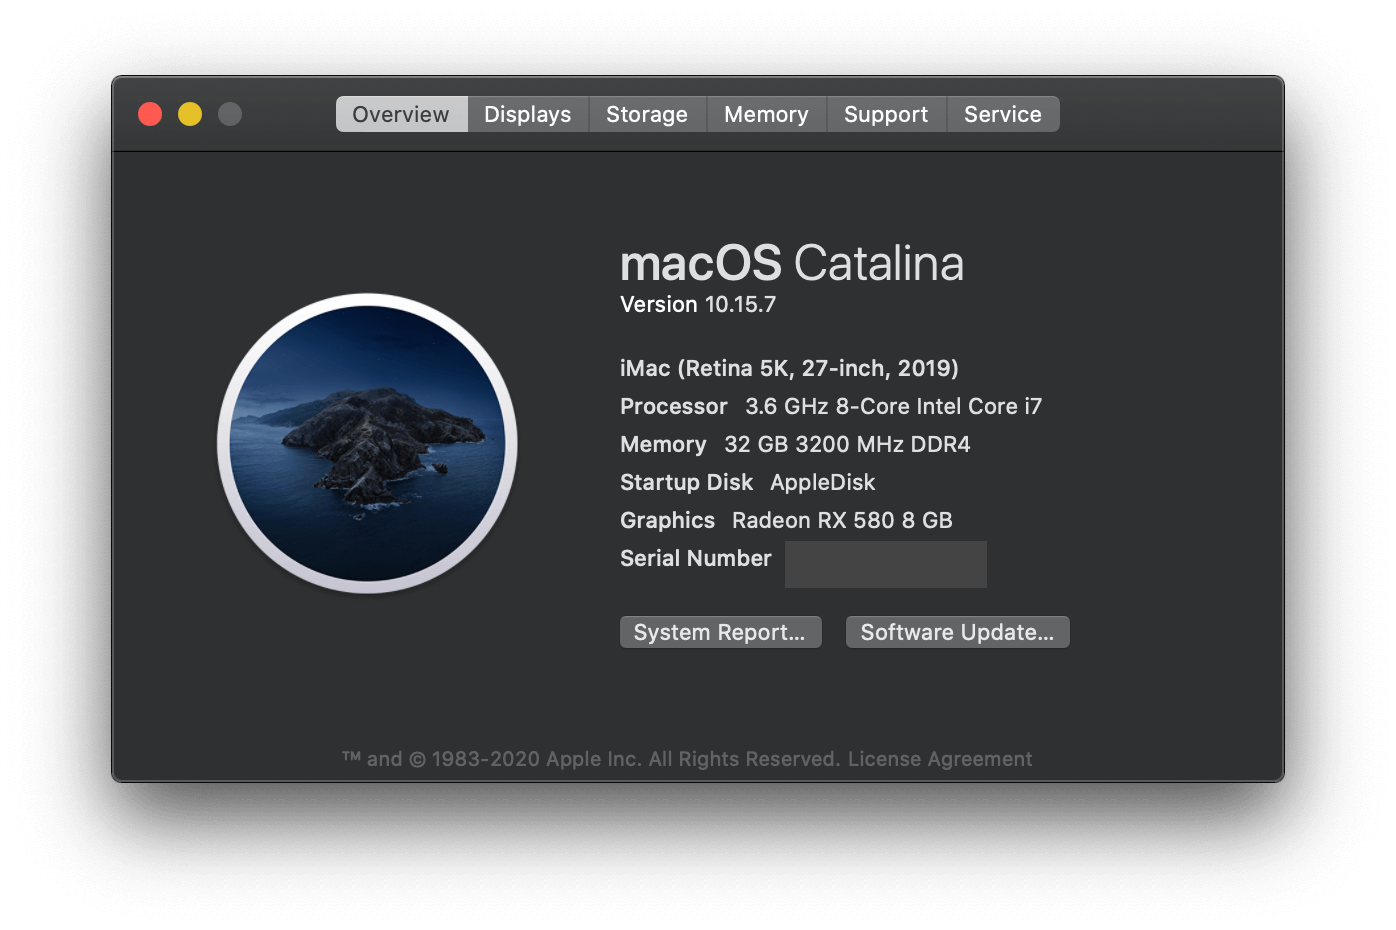
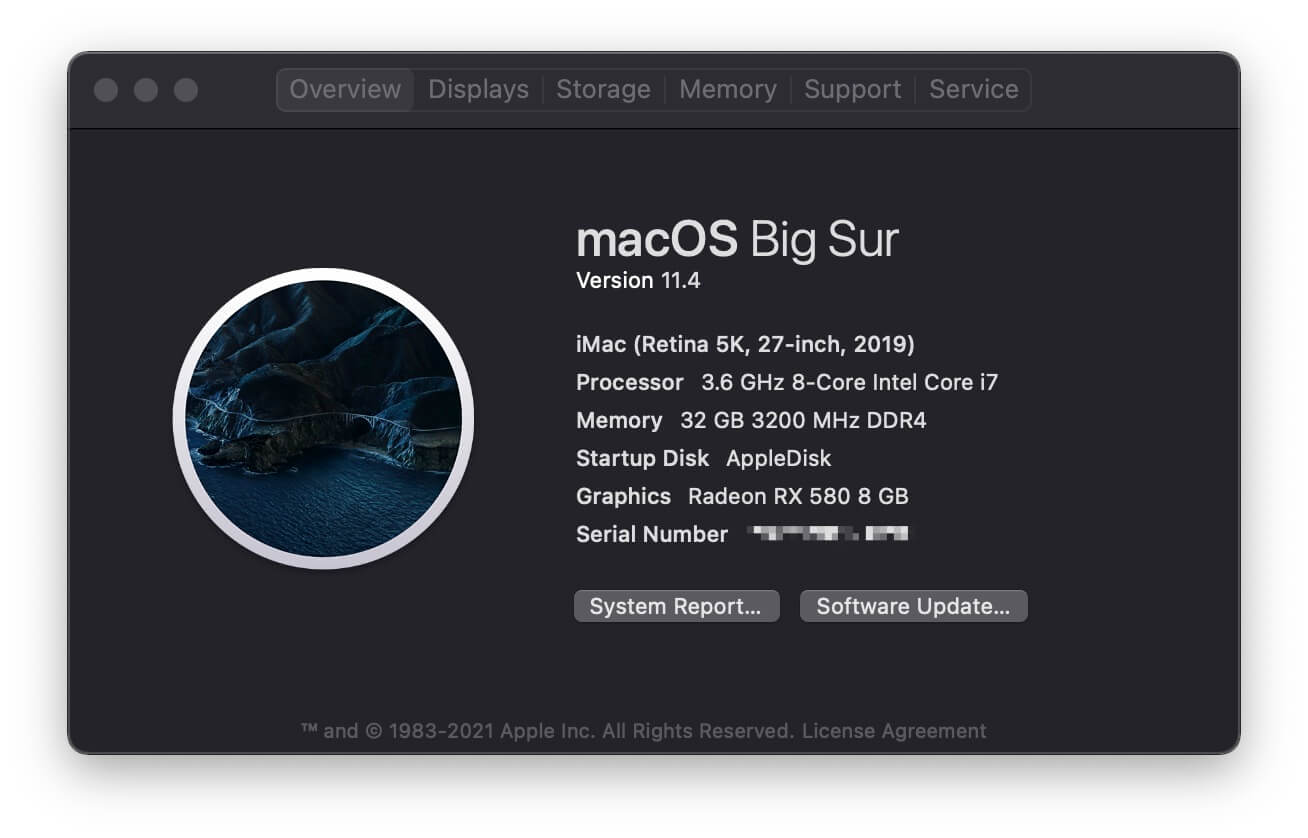
Update Readme.

diff --git a/doc/changelog.md b/doc/changelog.md
@@ -1,5 +1,18 @@
 # Change Log
 
+## 2021-06-18
+
+1. Update OpenCore to v0.7.0
+2. Update Lilu.kext to v1.5.3
+3. Update SMCProcessor.kext to v1.2.4
+4. Update SMCSuperIO.kext to v1.2.4
+5. Update VirtualSMC.kext to v1.2.4
+6. Update WhateverGreen.kext to v1.5.0
+7. Update IntelMausi.kext to v1.0.6
+8. Update AppleALC.kext to v1.6.1
+
+macOS sleep become more reliable, and support macOS 11. Have fun.
+
 ## 2020-10-10
 
 1. Update OpenCore to v0.6.2
